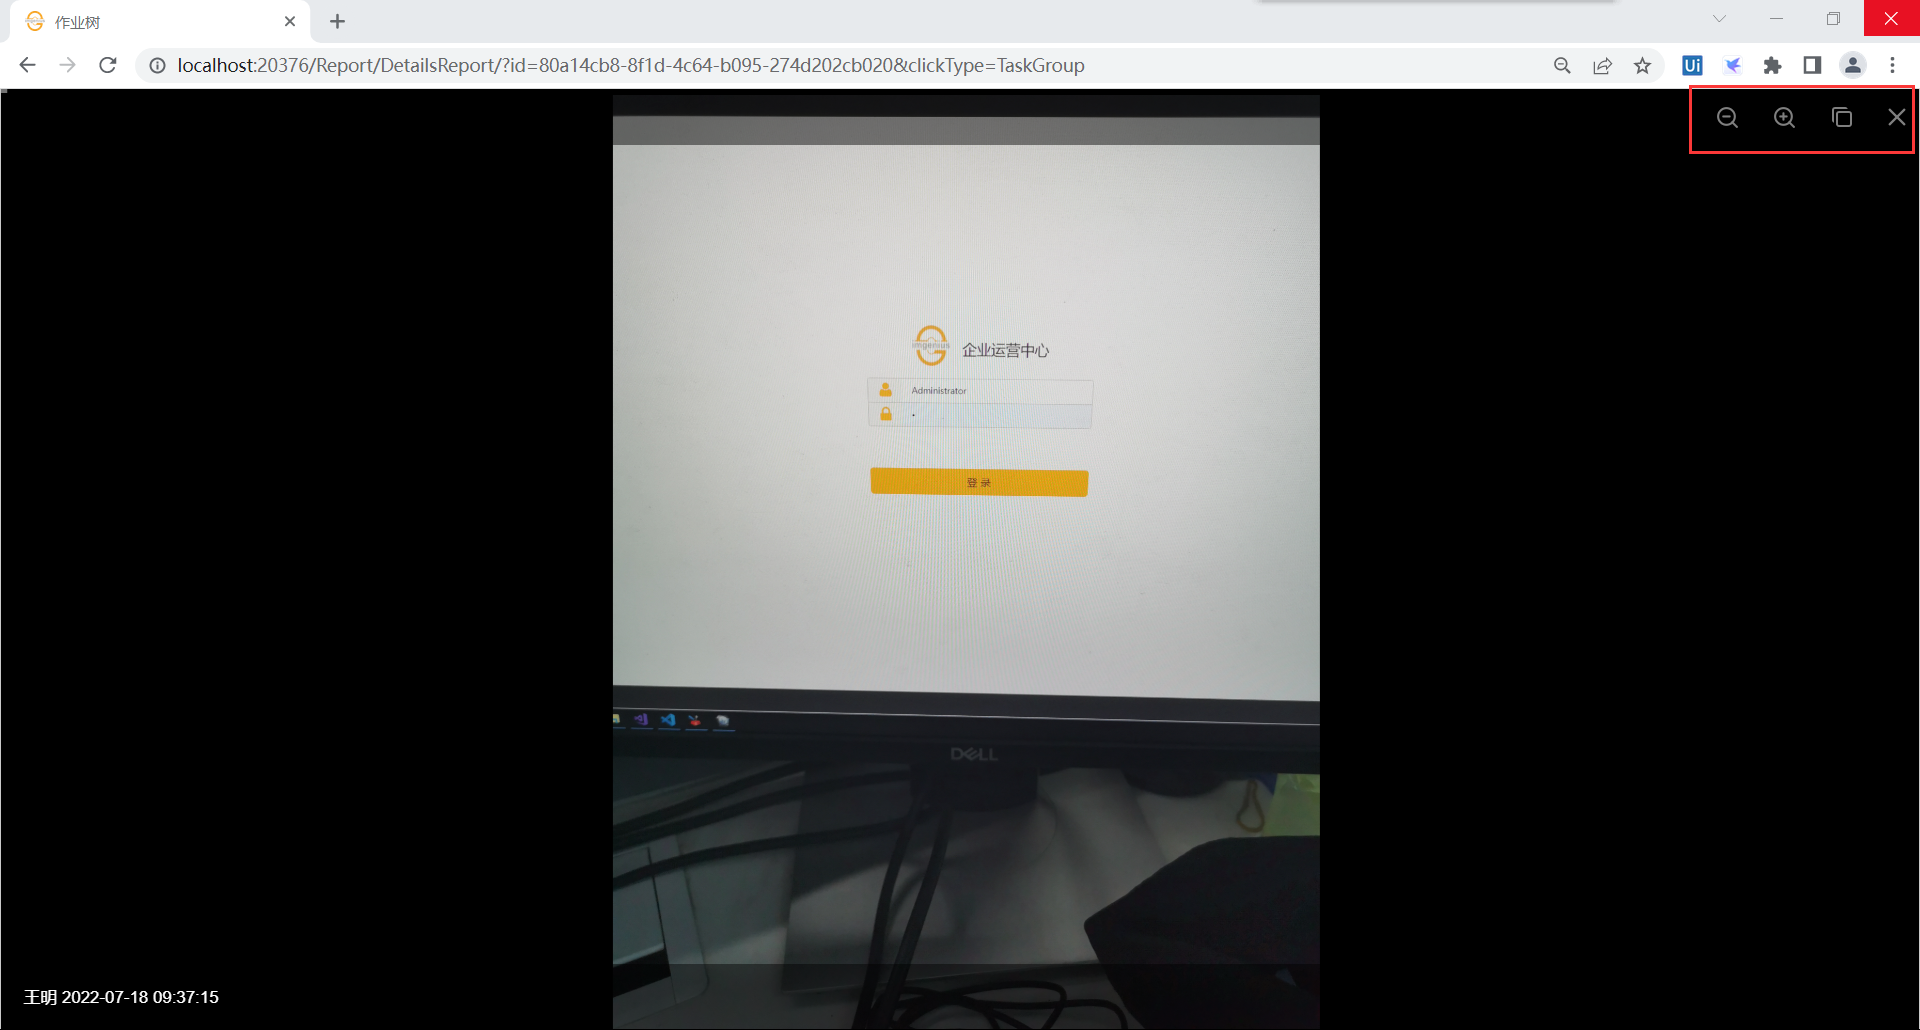
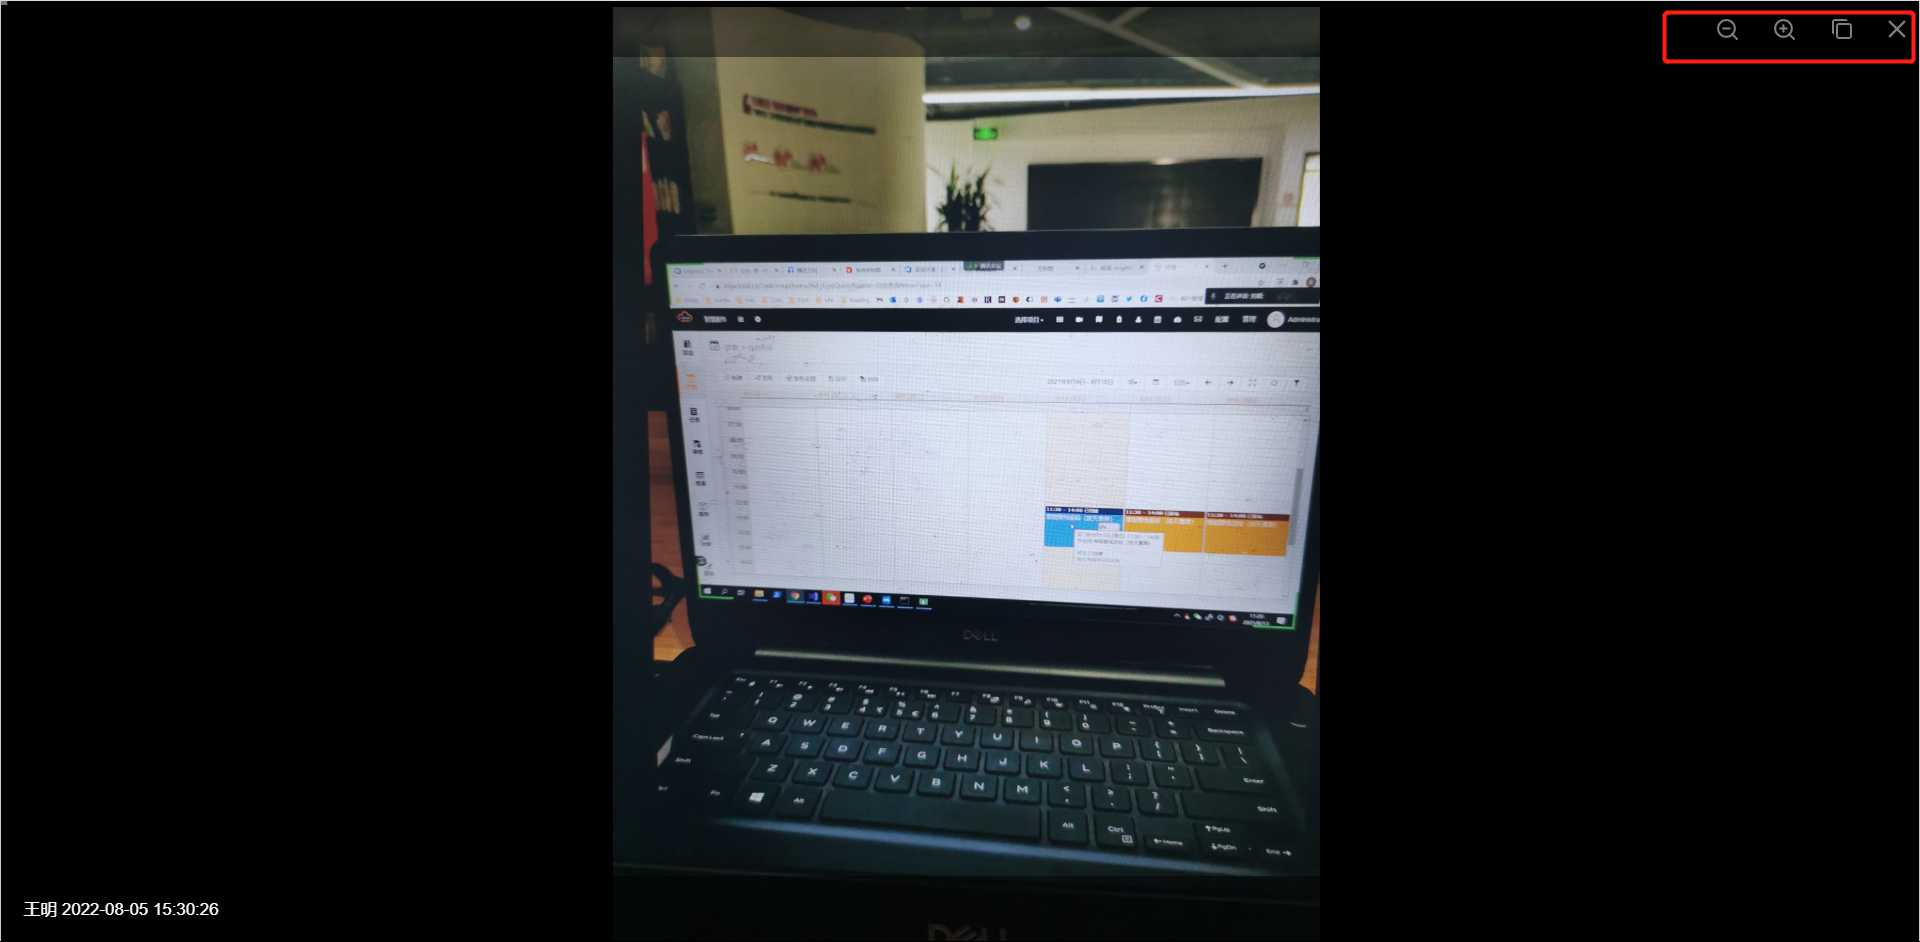
修改4.1.0发布说明

diff --git a/docs/发布说明/4.1.0发布说明.md b/docs/发布说明/4.1.0发布说明.md
@@ -951,7 +951,13 @@ var daAccess = new DAAccess();
 
 ### PBIN3723：EOC作业树图片预览时支持缩放
 
-* EOC作业树的图片预览功能增强，作业项逻辑图片点击为全屏显示，并支持放大和缩小,以及原图大小显示。
+* EOC作业树的图片预览功能优化，点击作业项逻辑图片为全屏显示，并支持放大和缩小,以及显示原图。
+
+* 未优化前EOC作业树页面的图片预览，点击后悬浮预览
+
+  <img alt=" " src={useBaseUrl('docimg/eoczuoyeshu4102.png')} />
+
+* 预览功能优化后，点击则在浏览器内全屏显示，右上角按钮分别为缩小，放大，以原图的像素大小显示，关闭预览。
 
   <img alt=" " src={useBaseUrl('docimg/eoczuoyeshu4101.png')} />
 
